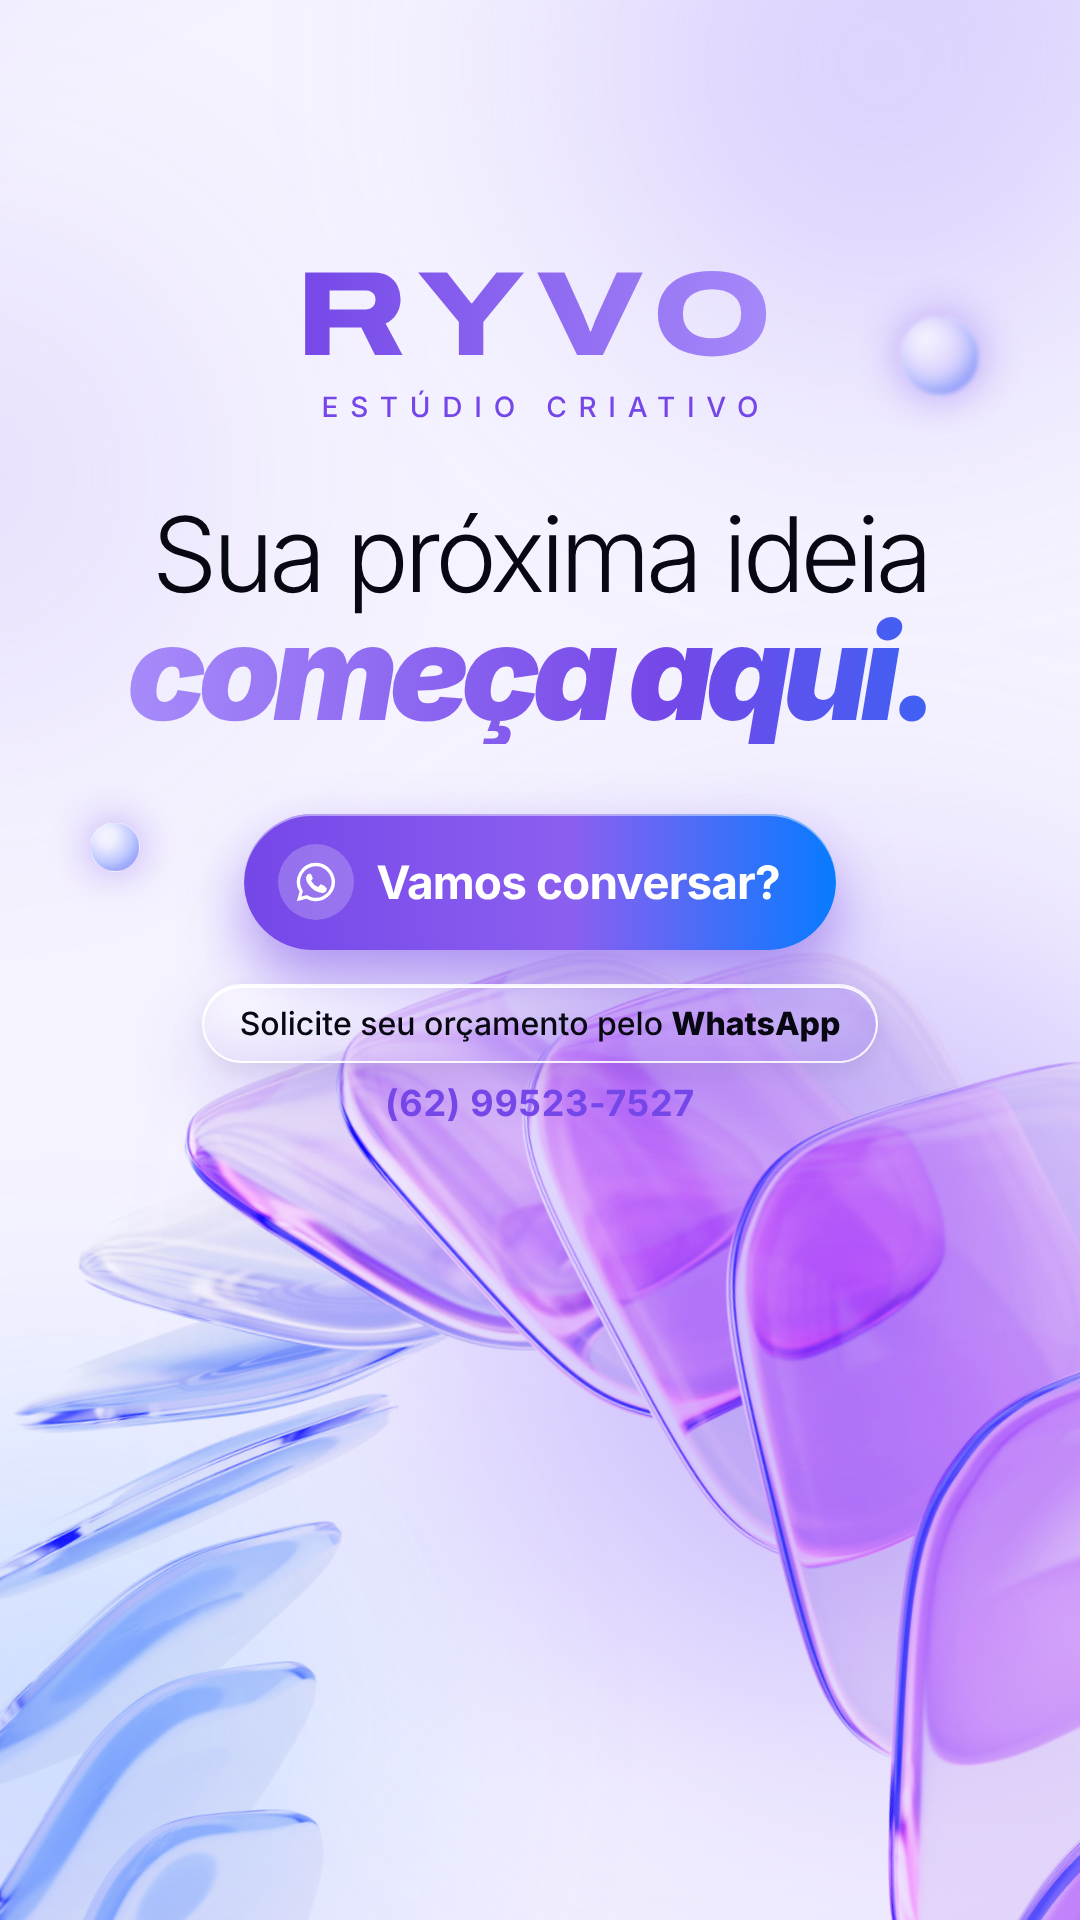
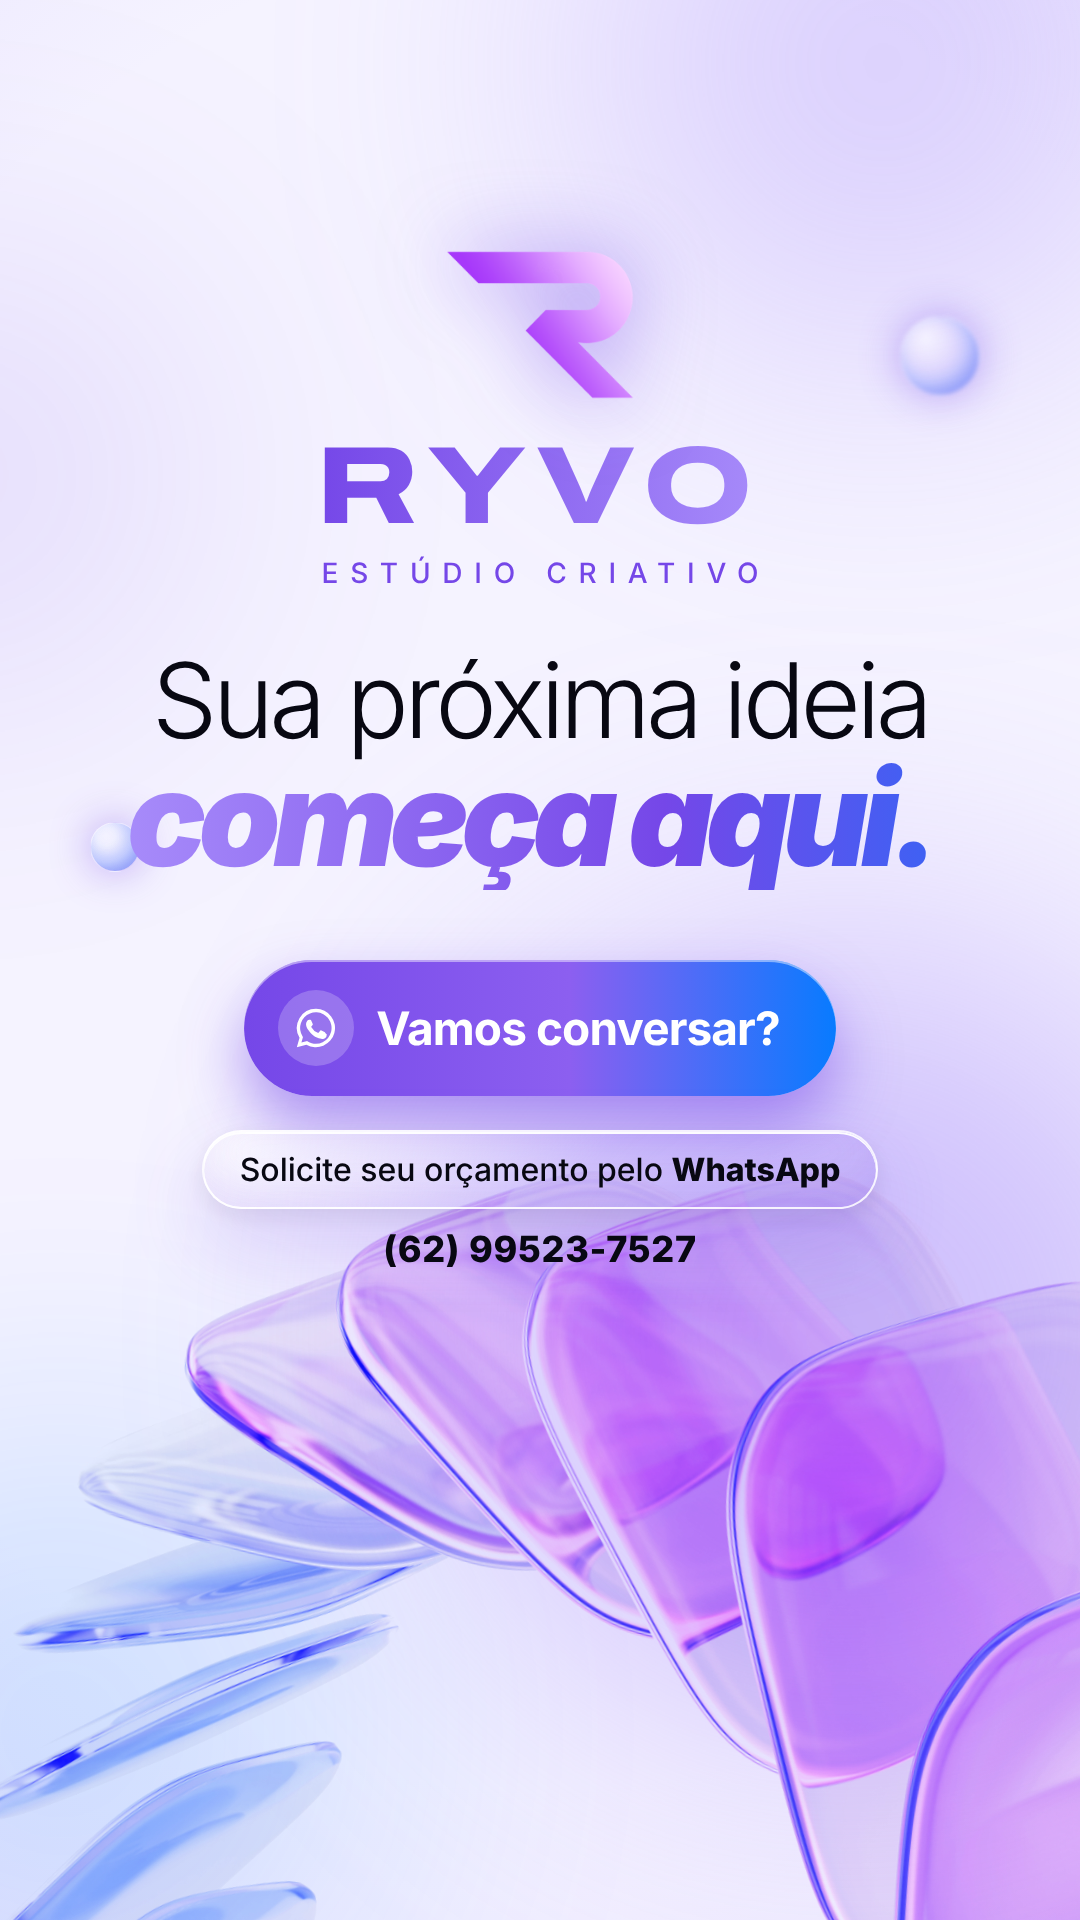
RYVO: aplica o símbolo R oficial (barra, encerramento, marca d'água, impressos)
Claude-Session: https://claude.ai/code/session_01RMhrmJ1z1ZndANTpDwqCSa

diff --git a/src/ryvo/scenes/Scene5Final.tsx b/src/ryvo/scenes/Scene5Final.tsx
@@ -1,7 +1,7 @@
 import React from "react";
 import { AbsoluteFill, Img, interpolate, staticFile, useCurrentFrame } from "remotion";
 import { useTheme } from "../ThemeContext";
-import { Bubble, Headline, LogoText, Reveal, useProgress } from "../components";
+import { Bubble, Headline, LogoMark, LogoText, Reveal, useProgress } from "../components";
 import { FONT } from "../theme";
 
 const WhatsIcon: React.FC<{ size: number }> = ({ size }) => (
@@ -27,7 +27,7 @@ export const Scene5Final: React.FC = () => {
         style={{
           position: "absolute",
           left: -80,
-          top: 900,
+          top: 1120,
           width: 1240,
           height: 1100,
           opacity: ring * 0.95,
@@ -42,12 +42,21 @@ export const Scene5Final: React.FC = () => {
 
       <div style={{ position: "absolute", left: 0, right: 0, top: 250, display: "flex", flexDirection: "column", alignItems: "center" }}>
         <div style={{ opacity: logo, filter: `blur(${(1 - logo) * 16}px)`, transform: `scale(${0.9 + logo * 0.1})`, textAlign: "center" }}>
-          <LogoText size={120} />
+          <div style={{ display: "flex", justifyContent: "center", marginBottom: 26 }}>
+            <LogoMark
+              height={150}
+              style={{
+                transform: `translateX(${(1 - logo) * -60}px) rotate(${(1 - logo) * -8}deg)`,
+                filter: `drop-shadow(0 0 ${30 + Math.sin(t * 2) * 10}px rgba(117,71,232,0.55))`,
+              }}
+            />
+          </div>
+          <LogoText size={110} />
           <div style={{ fontSize: 28, letterSpacing: "0.42em", color: T.accentText, fontWeight: 500, marginTop: 10, paddingLeft: "0.42em" }}>
             ESTÚDIO CRIATIVO
           </div>
         </div>
-        <div style={{ height: 80 }} />
+        <div style={{ height: 60 }} />
         <Headline light={"Sua próxima ideia"} bold={"começa aqui."} delay={0.5} lightSize={104} boldSize={132} align="center" />
         <div style={{ height: 70 }} />
 
@@ -91,7 +100,7 @@ export const Scene5Final: React.FC = () => {
         </Reveal>
         <div style={{ height: 18 }} />
         <Reveal delay={1.9}>
-          <div style={{ fontSize: 36, fontWeight: 700, color: T.accentText, letterSpacing: "0.02em", transform: `translateY(${Math.sin(t) * 0}px)` }}>
+          <div style={{ fontSize: 36, fontWeight: 800, color: T.text, letterSpacing: "0.02em", transform: `translateY(${Math.sin(t) * 0}px)` }}>
             (62) 99523-7527
           </div>
         </Reveal>

diff --git a/src/ryvo/scenes/Scene4Impressao.tsx b/src/ryvo/scenes/Scene4Impressao.tsx
@@ -1,6 +1,6 @@
 import React from "react";
 import { AbsoluteFill, useCurrentFrame } from "remotion";
-import { Bubble, Chips, Eyebrow, GlassTile, Headline, LogoText, useProgress } from "../components";
+import { Bubble, Chips, Eyebrow, GlassTile, Headline, LogoMark, LogoText, useProgress } from "../components";
 import { FONT } from "../theme";
 
 const Card: React.FC<{ front?: boolean }> = ({ front }) => (
@@ -21,9 +21,12 @@ const Card: React.FC<{ front?: boolean }> = ({ front }) => (
   >
     {front ? (
       <>
-        <span style={{ fontFamily: "'Archivo Variable'", fontStretch: "125%", fontWeight: 800, fontSize: 40, letterSpacing: "0.1em", color: "#fff" }}>
-          RYVO
-        </span>
+        <div style={{ display: "flex", alignItems: "center", gap: 16 }}>
+          <LogoMark height={44} white />
+          <span style={{ fontFamily: "'Archivo Variable'", fontStretch: "125%", fontWeight: 800, fontSize: 40, letterSpacing: "0.1em", color: "#fff" }}>
+            RYVO
+          </span>
+        </div>
         <span style={{ fontFamily: FONT, fontSize: 16, letterSpacing: "0.2em", color: "rgba(255,255,255,0.85)" }}>ESTÚDIO CRIATIVO</span>
       </>
     ) : (
@@ -124,7 +127,7 @@ const Visual: React.FC = () => {
           height: 150,
           borderRadius: 75,
           opacity: bag,
-          transform: `scale(${0.6 + bag * 0.4}) rotate(${-15 + t * 8}deg)`,
+          transform: `scale(${0.6 + bag * 0.4}) rotate(${-10 + Math.sin(t * 1.5) * 6}deg)`,
           background: "linear-gradient(135deg, #087BFF, #7547E8)",
           display: "flex",
           alignItems: "center",
@@ -138,7 +141,7 @@ const Visual: React.FC = () => {
           letterSpacing: "0.08em",
         }}
       >
-        RYVO
+        <LogoMark height={64} white />
       </div>
     </div>
   );

diff --git a/src/ryvo/RyvoComercial.tsx b/src/ryvo/RyvoComercial.tsx
@@ -1,7 +1,7 @@
 import React from "react";
 import { AbsoluteFill, Sequence, interpolate, useCurrentFrame } from "remotion";
-import { Background, BrandBar, SceneWrap } from "./components";
-import { LOGO_FONT, ThemeName, sceneFrames } from "./theme";
+import { Background, BrandBar, LogoMark, SceneWrap } from "./components";
+import { ThemeName, sceneFrames } from "./theme";
 import { ThemeProvider, useTheme } from "./ThemeContext";
 import { Scene1Reveal } from "./scenes/Scene1Reveal";
 import { Scene2Motion } from "./scenes/Scene2Motion";
@@ -37,23 +37,9 @@ const Inner: React.FC = () => {
   return (
     <AbsoluteFill>
       <Background />
-      {/* faint centred watermark */}
+      {/* faint centred watermark: official R symbol */}
       <AbsoluteFill style={{ alignItems: "center", justifyContent: "center" }}>
-        <div
-          style={{
-            fontFamily: LOGO_FONT,
-            fontStretch: "125%",
-            fontWeight: 900,
-            fontSize: 300,
-            letterSpacing: "0.08em",
-            color: T.watermark,
-            opacity: 0.05 * barOpacity,
-            transform: "rotate(-90deg)",
-            whiteSpace: "nowrap",
-          }}
-        >
-          RYVO
-        </div>
+        <LogoMark height={760} style={{ opacity: (T.name === "escuro" ? 0.06 : 0.07) * barOpacity, transform: "translateX(60px)" }} />
       </AbsoluteFill>
       {scenes.map((s, i) => {
         const Comp = SCENE_COMPONENTS[s.id];

diff --git a/src/ryvo/components.tsx b/src/ryvo/components.tsx
@@ -2,6 +2,8 @@ import React from "react";
 import {
   AbsoluteFill,
   Easing,
+  Img,
+  staticFile,
   interpolate,
   useCurrentFrame,
   useVideoConfig,
@@ -229,6 +231,18 @@ export const LogoText: React.FC<{ size: number; style?: React.CSSProperties }> =
   );
 };
 
+/** Official RYVO "R" symbol (PNG with transparency, aspect 1348:1060). */
+export const LogoMark: React.FC<{ height: number; white?: boolean; style?: React.CSSProperties }> = ({
+  height,
+  white,
+  style,
+}) => (
+  <Img
+    src={staticFile(white ? "ryvo-r-white.png" : "ryvo-r.png")}
+    style={{ height, width: (height * 1348) / 1060, display: "block", ...style }}
+  />
+);
+
 /** Glass pill: RYVO left, ESTÚDIO CRIATIVO right. */
 export const BrandBar: React.FC<{ opacity?: number }> = ({ opacity = 1 }) => {
   const T = useTheme();
@@ -249,7 +263,10 @@ export const BrandBar: React.FC<{ opacity?: number }> = ({ opacity = 1 }) => {
       background: T.brandBarBg,
     }}
   >
-    <LogoText size={40} />
+    <div style={{ display: "flex", alignItems: "center", gap: 20 }}>
+      <LogoMark height={50} />
+      <LogoText size={40} />
+    </div>
     <span style={{ fontFamily: FONT, fontSize: 26, letterSpacing: "0.12em", color: T.accentText, fontWeight: 500 }}>
       ESTÚDIO CRIATIVO
     </span>

diff --git a/src/ryvo/scenes/Scene3Grafico.tsx b/src/ryvo/scenes/Scene3Grafico.tsx
@@ -1,7 +1,7 @@
 import React from "react";
 import { AbsoluteFill, interpolate, useCurrentFrame } from "remotion";
 import { useTheme } from "../ThemeContext";
-import { Bubble, Chips, Eyebrow, GlassTile, Headline, LogoText, useProgress } from "../components";
+import { Bubble, Chips, Eyebrow, GlassTile, Headline, LogoMark, LogoText, useProgress } from "../components";
 import { FONT } from "../theme";
 
 /** Phone with a social post + identity board, fanned in 3D. */
@@ -73,7 +73,9 @@ const Visual: React.FC = () => {
         }}
       >
         <div style={{ display: "flex", alignItems: "center", gap: 12, padding: "10px 8px 16px" }}>
-          <div style={{ width: 46, height: 46, borderRadius: 23, background: "linear-gradient(135deg,#7547E8,#087BFF)", border: "3px solid #F5F3FF" }} />
+          <div style={{ width: 46, height: 46, borderRadius: 23, background: "#080812", border: "2px solid #A78BFA", display: "flex", alignItems: "center", justifyContent: "center" }}>
+            <LogoMark height={18} />
+          </div>
           <LogoText size={20} />
         </div>
         <div
